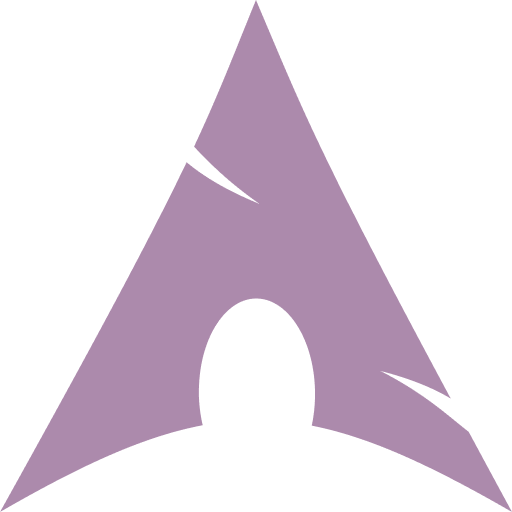
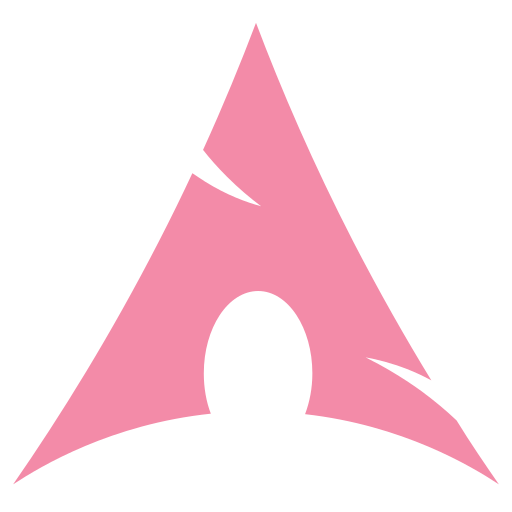
chore(theme): change the theme to mocha

diff --git a/config/eww/css/_theme.scss b/config/eww/css/_theme.scss
@@ -1,43 +1,43 @@
-$bar-border-radius:     10px;
-$widgets-border-radius: 5px;
+$bar-border-radius:     12.5px;
+$widgets-border-radius: 16px;
 
 $font-family:  Product Sans;
 
-$rosewater:    #d8a657;
-$flamingo:     #ea6962;
-$pink:         #d3869b;
-$mauve:        #d3869b;
-$dark-mauve:   #d3869b;
-$red:          #ea6962;
-$maroon:       #ea6962;
-$peach:        #d8a657;
-$yellow:       #e78a4e;
-$green:        #a9b665;
-$teal:         #89b482;
-$sky:          #7daea3;
-$sapphire:     #7daea3;
-$blue:         #7daea3;
-$dark-blue:    #89b482;
-$lavender:     #7daea3;
-$white:        #d4be98;
+$rosewater:    #F9E2AF;
+$flamingo:     #F38BA8;
+$pink:         #F5C2E7;
+$mauve:        #F5C2E7;
+$dark-mauve:   #F5C2E7;
+$red:          #F38BA8;
+$maroon:       #F38BA8;
+$peach:        #F9E2AF;
+$yellow:       #F9E2AF;
+$green:        #A6E3A1;
+$teal:         #94E2D5;
+$sky:          #89B4FA;
+$sapphire:     #89B4FA;
+$blue:         #89B4FA;
+$dark-blue:    #94E2D5;
+$lavender:     #89B4FA;
+$white:        #CDD6F4;
 
-$text:        #d4be98;
-$subtext1:    #d4be98;
-$subtext0:    #d4be98;
-$overlay2:    #7c6f64;
-$overlay1:    #928374;
-$overlay0:    #a89984;
+$text:        #CDD6F4;
+$subtext1:    #BAC2DE;
+$subtext0:    #A6ADC8;
+$overlay2:    #9399b2;
+$overlay1:    #7f849c;
+$overlay0:    #6c7086;
 
-$surface2:    #928374;
-$surface1:    #665c54;
-$surface0:    #32302f;
+$surface2:    #585B70;
+$surface1:    #45475A;
+$surface0:    #313244;
 
-$base:   #1d2021;
-$mantle: #928374;
-$crust:  #665c54;
+$base:   #141521;
+$mantle: #181825;
+$crust:  #11111b;
 
 $fg: $text;
 $bg: $base;
 $bg1: $surface0;
-$border: #32361a;
+$border: #28283d;
 $shadow: $crust;

diff --git a/config/wlogout/style.css b/config/wlogout/style.css
@@ -1,8 +1,8 @@
 window {
-    font-family: Iosevka Nerd Font;
+    font-family: JetBrainsMono Nerd Font;
     font-size: 14pt;
-    color: #333e34;
-    background-color: rgba(29, 32, 33, 0.2);
+    color: #cdd6f4;
+    background-color: rgba(30, 30, 46, 0.5);
 }
 
 button {
@@ -10,19 +10,19 @@ button {
     background-position: center 40%;
     background-size: 25%;
     border: none;
-    background-color: rgba(29, 32, 33, 0);
+    background-color: rgba(30, 30, 46, 0);
     margin: 30px;
-    border-radius: 2px;
+    border-radius: 30px;
     transition: box-shadow 0.2s ease-in-out, background-color 0.2s ease-in-out;
 }
 
 button:hover {
-    background-color: rgba(234, 105, 98, 0.1);
+    background-color: rgba(49, 50, 68, 0.1);
 }
 
 button:focus {
-    background-color:#89b482;
-    color: #665c54;
+    background-color:#cba6f7;
+    color: #1e1e2e;
 }
 
 #lock {
